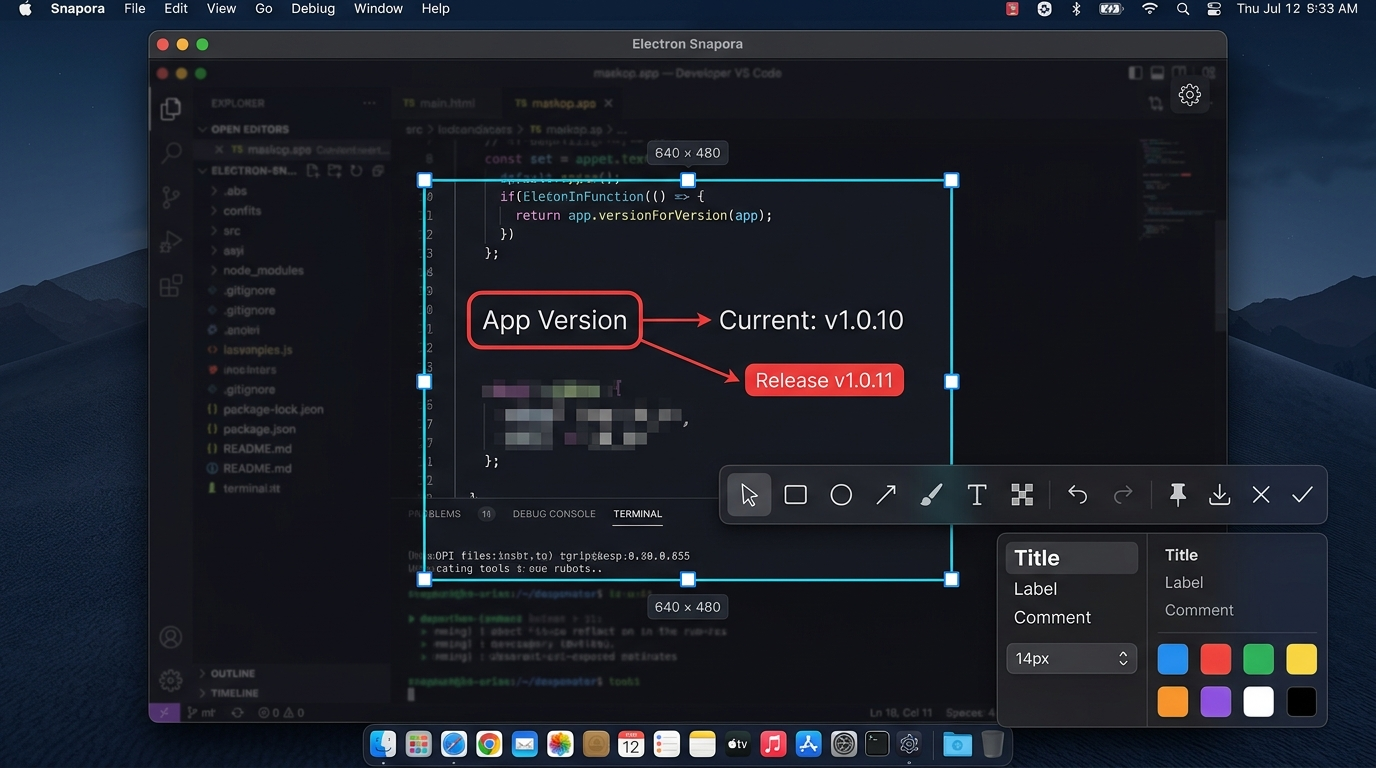
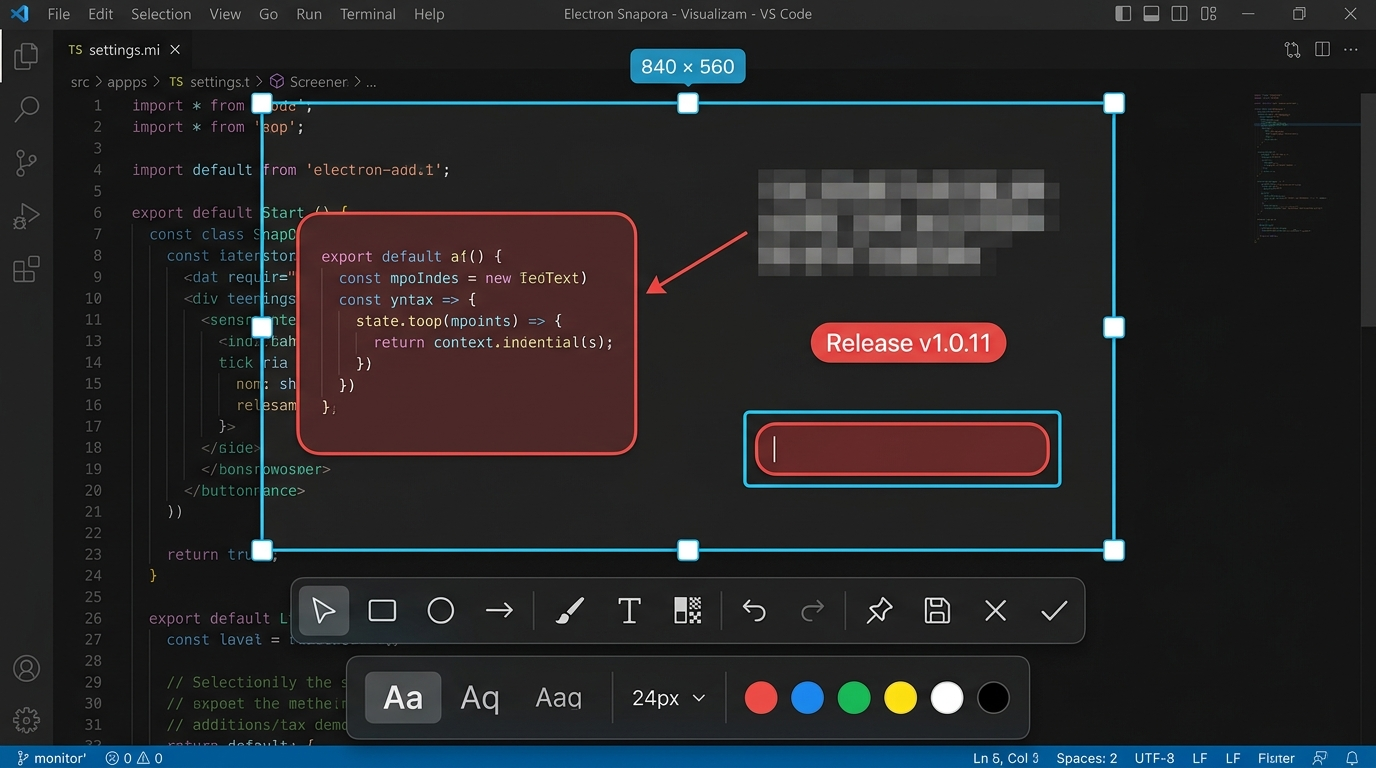
fix(overlay): refine text input border spacing and update preview image

diff --git a/src/overlay/main.ts b/src/overlay/main.ts
@@ -120,6 +120,7 @@ const selectionElement = requireElement('.selection');
 const windowSnapPreview = requireElement<HTMLElement>('.window-snap-preview');
 const sizeHint = requireElement<HTMLOutputElement>('.size-hint');
 const toolbar = requireElement('.selection-toolbar');
+const textEditorContainer = requireElement<HTMLElement>('.text-editor-container');
 const textEditor = requireElement<HTMLTextAreaElement>('.text-editor');
 const cancelButton = requireElement<HTMLButtonElement>('.cancel-button');
 const saveButton = requireElement<HTMLButtonElement>('.save-button');
@@ -561,7 +562,7 @@ window.addEventListener('keydown', (event) => {
     colorControl.focus();
     return;
   }
-  if (!textEditor.hidden) {
+  if (!textEditorContainer.hidden) {
     return;
   }
   const eventTarget = event.target;
@@ -639,7 +640,7 @@ function handleCanvasPointerDown(event: PointerEvent): void {
     return;
   }
   // textarea 会被下一次文字点击复用，必须在清空并移动它之前提交当前内容。
-  if (!textEditor.hidden) {
+  if (!textEditorContainer.hidden) {
     closeTextEditor(true);
   }
   event.stopPropagation();
@@ -1044,8 +1045,7 @@ function openTextEditor(viewportPoint: Point, imagePoint: Point): void {
   pendingTextPoint = imagePoint;
   pendingTextViewportPoint = viewportPoint;
   textEditor.value = '';
-  textEditor.hidden = false;
-  textEditor.style.transform = `translate(${viewportPoint.x}px, ${viewportPoint.y}px)`;
+  textEditorContainer.hidden = false;
   applyTextEditorPreset(style.textStyle, style.color, fontSize);
   textEditor.style.fontSize = `${fontSize}px`;
   resizeTextEditor();
@@ -1059,44 +1059,86 @@ function resizeTextEditor(): void {
     return;
   }
   const editorStyle = window.getComputedStyle(textEditor);
+  const containerStyle = window.getComputedStyle(textEditorContainer);
   const fontSize = parseCssPixels(editorStyle.fontSize) || 14;
   const textWidth = textEditor.value
     ? measureTextLayout(annotationContext, textEditor.value, fontSize).width
     : 0;
-  const horizontalChrome =
-    parseCssPixels(editorStyle.borderLeftWidth) +
-    parseCssPixels(editorStyle.borderRightWidth) +
+
+  const containerPaddingX =
+    parseCssPixels(containerStyle.paddingLeft) +
+    parseCssPixels(containerStyle.paddingRight);
+  const containerBorderX =
+    parseCssPixels(containerStyle.borderLeftWidth) +
+    parseCssPixels(containerStyle.borderRightWidth);
+  const containerChromeX = containerPaddingX + containerBorderX;
+
+  const containerPaddingY =
+    parseCssPixels(containerStyle.paddingTop) +
+    parseCssPixels(containerStyle.paddingBottom);
+  const containerBorderY =
+    parseCssPixels(containerStyle.borderTopWidth) +
+    parseCssPixels(containerStyle.borderBottomWidth);
+  const containerChromeY = containerPaddingY + containerBorderY;
+
+  const editorPaddingX =
     parseCssPixels(editorStyle.paddingLeft) +
     parseCssPixels(editorStyle.paddingRight);
-  const minimumWidth = Math.min(44, selection.width);
-  const targetWidth = Math.min(
-    selection.width,
-    Math.max(minimumWidth, Math.ceil(textWidth + horizontalChrome + 4))
-  );
-  textEditor.style.minWidth = `${minimumWidth}px`;
-  textEditor.style.width = `${targetWidth}px`;
-  textEditor.style.height = 'auto';
-  const borderHeight = textEditor.offsetHeight - textEditor.clientHeight;
-  const minimumHeight = Math.min(42, selection.height);
-  const desiredHeight = Math.max(textEditor.scrollHeight + borderHeight, minimumHeight);
-  const targetHeight = Math.min(selection.height, desiredHeight);
-  textEditor.style.minHeight = `${minimumHeight}px`;
-  textEditor.style.height = `${targetHeight}px`;
-  textEditor.style.overflowY = desiredHeight > targetHeight ? 'auto' : 'hidden';
 
+  const minEditorWidth = 36;
+  const minEditorHeight = 32;
+
+  const desiredEditorWidth = Math.max(
+    minEditorWidth,
+    Math.ceil(textWidth + editorPaddingX + 4)
+  );
+  const targetContainerWidth = Math.min(
+    selection.width,
+    desiredEditorWidth + containerChromeX
+  );
+  const actualEditorWidth = Math.max(
+    minEditorWidth,
+    targetContainerWidth - containerChromeX
+  );
+
+  textEditor.style.width = `${actualEditorWidth}px`;
+  textEditor.style.height = 'auto';
+
+  const desiredEditorHeight = Math.max(
+    textEditor.scrollHeight,
+    minEditorHeight
+  );
+  const targetContainerHeight = Math.min(
+    selection.height,
+    desiredEditorHeight + containerChromeY
+  );
+  const actualEditorHeight = Math.max(
+    minEditorHeight,
+    targetContainerHeight - containerChromeY
+  );
+
+  textEditor.style.height = `${actualEditorHeight}px`;
+  textEditor.style.overflowY =
+    desiredEditorHeight > actualEditorHeight ? 'auto' : 'hidden';
+
+  // 水平位置：鼠标点击处右边出现，限制在选区内
   const left = Math.min(
     Math.max(anchor.x, selection.x),
-    selection.x + selection.width - targetWidth
+    selection.x + selection.width - targetContainerWidth
   );
+
+  // 垂直位置：相对鼠标点击点上下居中，限制在选区内
+  const desiredTop = anchor.y - targetContainerHeight / 2;
   const top = Math.min(
-    Math.max(anchor.y, selection.y),
-    selection.y + selection.height - targetHeight
+    Math.max(desiredTop, selection.y),
+    selection.y + selection.height - targetContainerHeight
   );
-  textEditor.style.transform = `translate(${left}px, ${top}px)`;
+
+  textEditorContainer.style.transform = `translate(${left}px, ${top}px)`;
 }
 
 function closeTextEditor(commit: boolean): void {
-  if (textEditor.hidden) {
+  if (textEditorContainer.hidden) {
     return;
   }
   const rawValue = textEditor.value;
@@ -1122,23 +1164,21 @@ function closeTextEditor(commit: boolean): void {
     );
     const surfaceBounds = surface.getBoundingClientRect();
     const editorBounds = textEditor.getBoundingClientRect();
-    // 使用浏览器实际布局后的边框坐标，吸收不同系统的子像素取整差异。
+    // 使用内部输入区实际布局后的视口坐标换算为 Image Pixel
     const editorOrigin = toImagePoint({
       x: editorBounds.left - surfaceBounds.left,
       y: editorBounds.top - surfaceBounds.top,
     });
-    const borderLeft = parseCssPixels(editorStyle.borderLeftWidth);
-    const borderRight = parseCssPixels(editorStyle.borderRightWidth);
-    const borderTop = parseCssPixels(editorStyle.borderTopWidth);
-    const borderBottom = parseCssPixels(editorStyle.borderBottomWidth);
+    const paddingLeft = parseCssPixels(editorStyle.paddingLeft);
+    const paddingTop = parseCssPixels(editorStyle.paddingTop);
     const contentOffset = {
-      x: (borderLeft + parseCssPixels(editorStyle.paddingLeft)) * imageScale,
-      y: (borderTop + parseCssPixels(editorStyle.paddingTop)) * imageScale,
+      x: paddingLeft * imageScale,
+      y: paddingTop * imageScale,
     };
     const fillBounds = calculateTextFillBounds(
       editorOrigin,
       { width: editorBounds.width, height: editorBounds.height },
-      { left: borderLeft, right: borderRight, top: borderTop, bottom: borderBottom },
+      undefined,
       imageScale
     );
     const measuredLineHeight = parseCssPixels(editorStyle.lineHeight) * imageScale;
@@ -1166,7 +1206,7 @@ function closeTextEditor(commit: boolean): void {
   }
   pendingTextPoint = null;
   pendingTextViewportPoint = null;
-  textEditor.hidden = true;
+  textEditorContainer.hidden = true;
   textEditor.value = '';
 }
 
@@ -1682,7 +1722,7 @@ function setPresetButtonState(button: HTMLButtonElement, active: boolean): void 
 function applyColor(color: string): void {
   annotationStore.setStyle({ color });
   commitSelectedElementStyle({ color });
-  if (!textEditor.hidden) {
+  if (!textEditorContainer.hidden) {
     const style = annotationStore.getState().style;
     applyTextEditorPreset(style.textStyle, color, Math.max(14, style.fontSize));
   }
@@ -1848,7 +1888,7 @@ function hsvToHex(color: HsvColor): string {
 function applyFontSize(fontSize: number): void {
   annotationStore.setStyle({ fontSize });
   commitSelectedElementStyle({ fontSize: fontSize * getImageScale() });
-  if (!textEditor.hidden) {
+  if (!textEditorContainer.hidden) {
     const style = annotationStore.getState().style;
     const effectiveFontSize = Math.max(14, fontSize);
     textEditor.style.fontSize = `${effectiveFontSize}px`;
@@ -1861,7 +1901,7 @@ function applyFontSize(fontSize: number): void {
 function applyTextStyle(textStyle: TextStyle): void {
   annotationStore.setStyle({ textStyle });
   commitSelectedElementStyle({ textStyle });
-  if (!textEditor.hidden) {
+  if (!textEditorContainer.hidden) {
     const style = annotationStore.getState().style;
     applyTextEditorPreset(textStyle, style.color, Math.max(14, style.fontSize));
     resizeTextEditor();
@@ -1882,9 +1922,6 @@ function applyTextEditorPreset(
   textEditor.style.backgroundColor = textStyle === 'fill' ? color : 'transparent';
   textEditor.style.textShadow = 'none';
   textEditor.style.paintOrder = 'stroke fill';
-  // 带背景色预设：输入框边框颜色与背景色一致；
-  // 普通和描边预设：边框设为透明（保留边框占位以保持精确几何布局），避免确认后边框突兀消失闪烁。
-  textEditor.style.borderColor = textStyle === 'fill' ? color : 'transparent';
   textEditor.style.setProperty(
     '-webkit-text-stroke',
     textStyle === 'shadow'

diff --git a/src/overlay/styles.css b/src/overlay/styles.css
@@ -1013,20 +1013,36 @@ input {
   transform: translate(-50%, 0);
 }
 
-.text-editor {
+.text-editor-container {
   position: absolute;
   top: 0;
   left: 0;
   z-index: 5;
-  width: 48px;
-  min-width: 44px;
-  min-height: 42px;
-  padding: 8px 10px;
+  display: flex;
+  box-sizing: border-box;
+  border: 1px solid var(--snapora-accent);
+  border-radius: 8px;
+  padding: 4px;
+  background: transparent;
+  pointer-events: none;
+}
+
+.text-editor-container[hidden] {
+  display: none;
+}
+
+.text-editor {
+  position: relative;
+  box-sizing: border-box;
+  width: 100%;
+  min-width: 36px;
+  min-height: 32px;
+  padding: 6px 8px;
   appearance: none;
   overflow: hidden;
   resize: none;
-  border: 1px solid transparent;
-  border-radius: 6px;
+  border: none;
+  border-radius: 4px;
   outline: none;
   color: #fff;
   background: transparent;
@@ -1037,10 +1053,7 @@ input {
   paint-order: stroke fill;
   caret-color: #fff;
   user-select: text;
-}
-
-.text-editor[hidden] {
-  display: none;
+  pointer-events: auto;
 }
 
 .status {

diff --git a/src/overlay/annotation-elements.ts b/src/overlay/annotation-elements.ts
@@ -91,16 +91,20 @@ export function measureTextBaselineMetrics(
   const previousFont = context.font;
   context.font = getTextCanvasFont(fontSize);
   try {
-    const metrics = context.measureText(splitTextLines(value)[0] || 'Mg');
+    const firstLine = splitTextLines(value)[0] || 'Mg国';
+    const lineMetrics = context.measureText(firstLine);
+    const referenceMetrics = context.measureText('Mg国');
     return {
       ascent: positiveMetric(
-        metrics.fontBoundingBoxAscent,
-        metrics.actualBoundingBoxAscent,
+        lineMetrics.fontBoundingBoxAscent,
+        referenceMetrics.fontBoundingBoxAscent,
+        referenceMetrics.actualBoundingBoxAscent,
         fontSize * 0.8
       ),
       descent: positiveMetric(
-        metrics.fontBoundingBoxDescent,
-        metrics.actualBoundingBoxDescent,
+        lineMetrics.fontBoundingBoxDescent,
+        referenceMetrics.fontBoundingBoxDescent,
+        referenceMetrics.actualBoundingBoxDescent,
         fontSize * 0.2
       ),
     };

diff --git a/src/overlay/index.html b/src/overlay/index.html
@@ -440,14 +440,15 @@
             aria-label="Hue"
           />
         </div>
-        <textarea
-          class="text-editor"
-          rows="1"
-          wrap="soft"
-          maxlength="500"
-          aria-label="Annotation text"
-          hidden
-        ></textarea>
+        <div class="text-editor-container" hidden>
+          <textarea
+            class="text-editor"
+            rows="1"
+            wrap="soft"
+            maxlength="500"
+            aria-label="Annotation text"
+          ></textarea>
+        </div>
         <p class="status">Preparing screenshot…</p>
         <div class="copy-feedback" role="status" aria-live="polite" hidden>
           <span class="copy-feedback-icon" aria-hidden="true">
